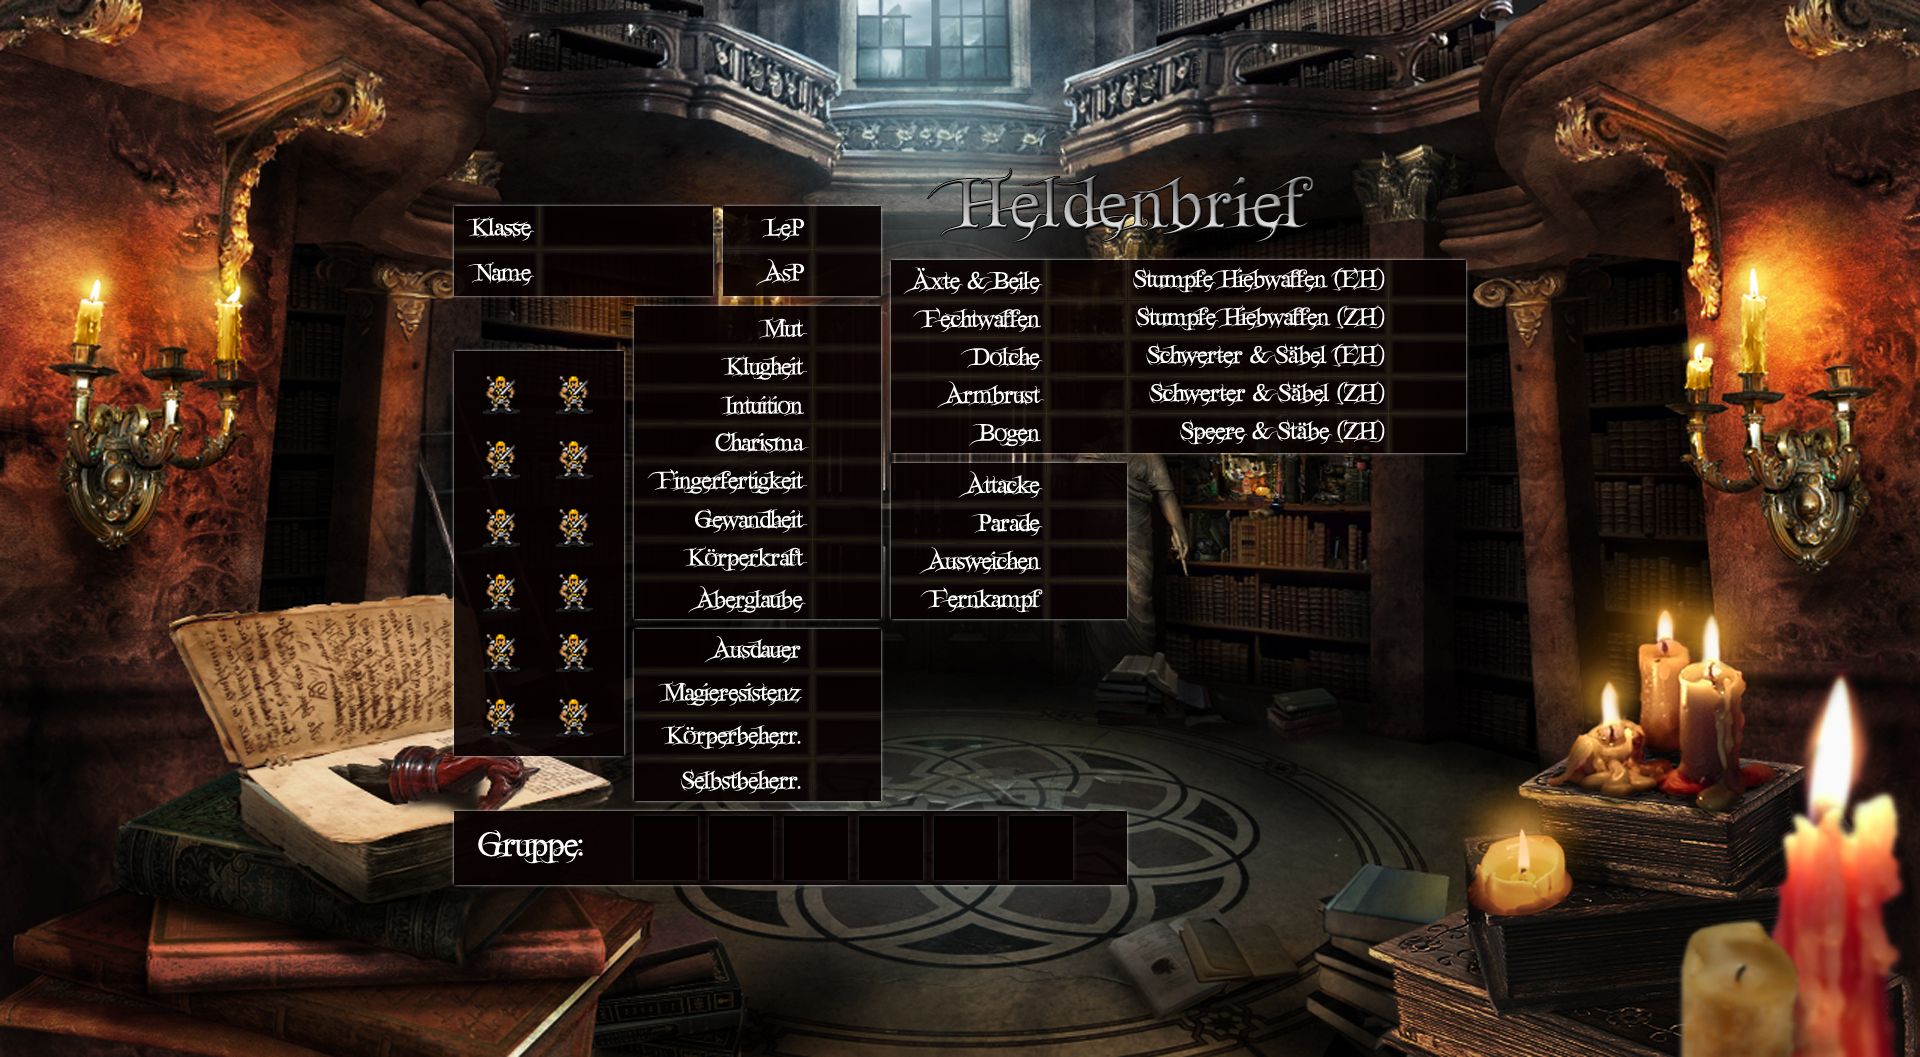
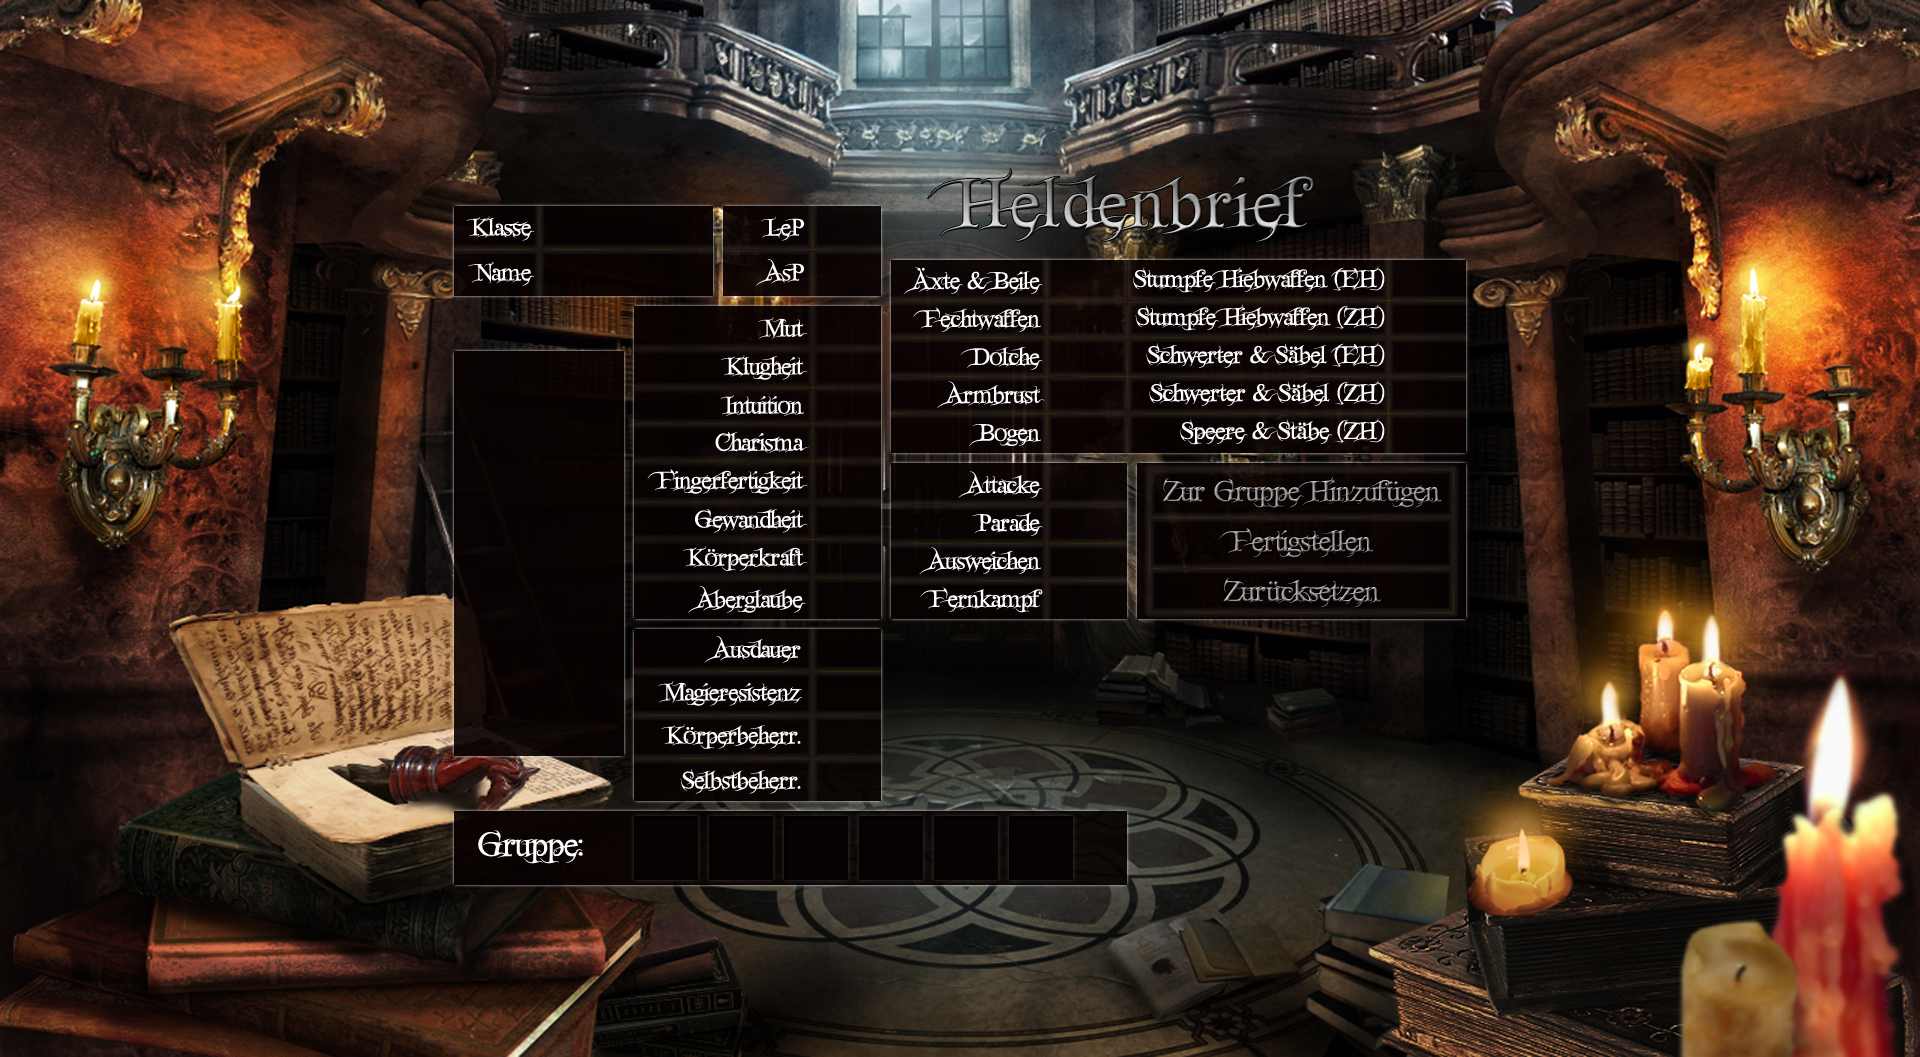
charakterSelection

Changed region(s): [[0.5938, 0.4371, 0.75, 0.5932], [0.25, 0.3434, 0.3125, 0.6244], [0.25, 0.6556, 0.3125, 0.6868]]

diff --git a/src/View/SelectionItem/CharakterSelectionItem.java b/src/View/SelectionItem/CharakterSelectionItem.java
@@ -15,7 +15,7 @@ public class CharakterSelectionItem extends JPanel
     public CharakterSelectionItem(String paramUrl, int paramXPos, int paramYPos, CharakterSelectionController paramCharakterSelectionController)
     {
         this.setOpaque(false);
-        this.setBounds(paramXPos, paramYPos, 48, 48);
+        this.setBounds(paramXPos, paramYPos, 52, 52);
         this.addMouseListener(paramCharakterSelectionController);
 
         try
@@ -29,6 +29,6 @@ public class CharakterSelectionItem extends JPanel
     public void paintComponent(Graphics charGraphic)
     {
         super.paintComponent(charGraphic);
-        charGraphic.drawImage(this.charImg, 0 , 0, this);
+        charGraphic.drawImage(this.charImg, 2, 2, this);
     }
 }

diff --git a/src/Controller/CharakterSelectionController.java b/src/Controller/CharakterSelectionController.java
@@ -27,7 +27,7 @@ public class CharakterSelectionController implements MouseListener
             if(i%2 == 0 && i != 0)
                 j++;
 
-            this.charakterSelectionView.add(new CharakterSelectionItem(this.charakterModelList.get(i).getUrl(), (500 + i * 75), (300 + j * 64), this));
+            this.charakterSelectionView.add(new CharakterSelectionItem(this.charakterModelList.get(i).getUrl(), (476 + (i%2) * 74), (363 + j * 67), this));
         }
     }
 
